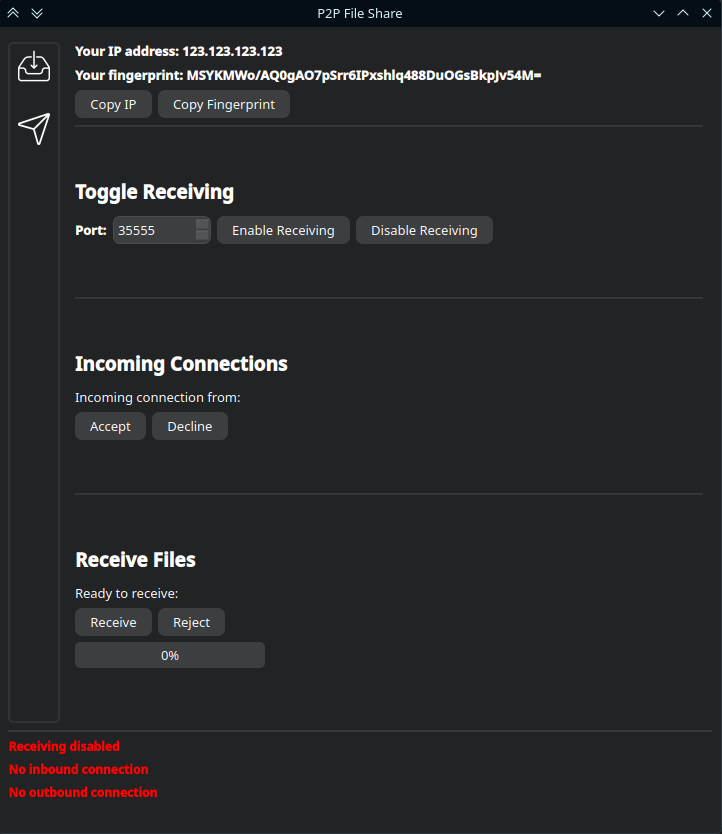
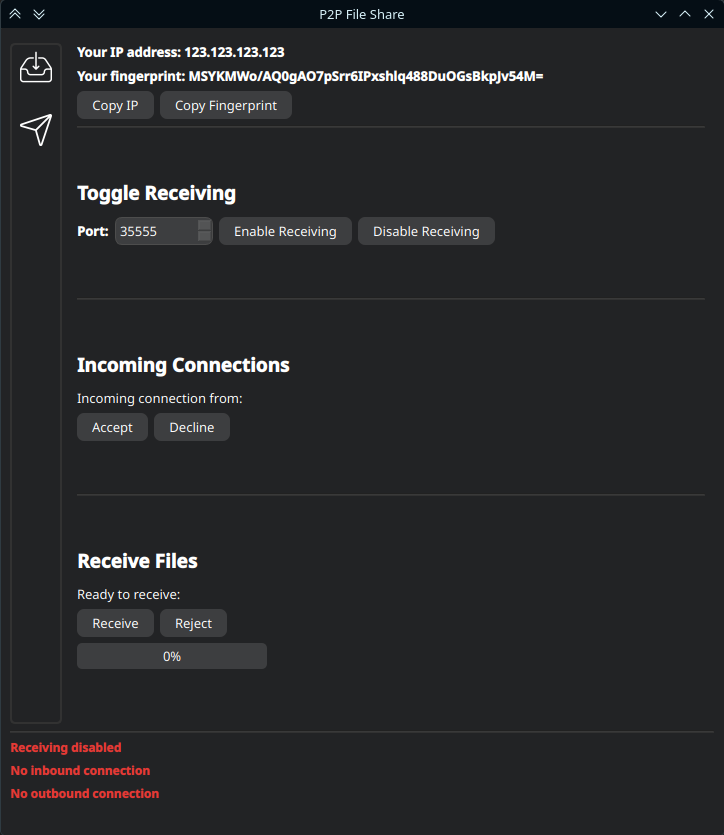
Updated colors

diff --git a/src/ui/gui_layout.py b/src/ui/gui_layout.py
@@ -805,7 +805,7 @@ class Ui_MainWindow(object):
         font.setPointSize(9)
         font.setBold(True)
         self.receivingLabel.setFont(font)
-        self.receivingLabel.setStyleSheet("color: red;")
+        self.receivingLabel.setStyleSheet("color: #E53935;")
         self.receivingLabel.setObjectName("receivingLabel")
         self.bottomLayout.addWidget(self.receivingLabel)
         self.inboundConnectionLabel = QtWidgets.QLabel(parent=self.centralwidget)
@@ -813,7 +813,7 @@ class Ui_MainWindow(object):
         font.setPointSize(9)
         font.setBold(True)
         self.inboundConnectionLabel.setFont(font)
-        self.inboundConnectionLabel.setStyleSheet("color: red;")
+        self.inboundConnectionLabel.setStyleSheet("color: #E53935;")
         self.inboundConnectionLabel.setObjectName("inboundConnectionLabel")
         self.bottomLayout.addWidget(self.inboundConnectionLabel)
         self.outboundConnectionLabel = QtWidgets.QLabel(parent=self.centralwidget)
@@ -821,7 +821,7 @@ class Ui_MainWindow(object):
         font.setPointSize(9)
         font.setBold(True)
         self.outboundConnectionLabel.setFont(font)
-        self.outboundConnectionLabel.setStyleSheet("color: red;")
+        self.outboundConnectionLabel.setStyleSheet("color: #E53935;")
         self.outboundConnectionLabel.setObjectName("outboundConnectionLabel")
         self.bottomLayout.addWidget(self.outboundConnectionLabel)
         self.verticalLayout_23.addLayout(self.bottomLayout)

diff --git a/src/ui/gui.py b/src/ui/gui.py
@@ -9,9 +9,9 @@ from PyQt6.QtCore import QSize
 from .gui_layout import Ui_MainWindow
 from controller.session_controller import SessionController
 
-GREEN_COLOR: str = "#4CAF50"
+GREEN_COLOR: str = "#27AE60"
 GREEN_COLOR_FORMATTED: str = f"color: {GREEN_COLOR}"
-RED_COLOR: str = "red"
+RED_COLOR: str = "#E53935"
 RED_COLOR_FORMATTED: str = f"color: {RED_COLOR}"
 CONTACT_FIELDS: list = ["name", "ip", "port", "fingerprint"]
 
